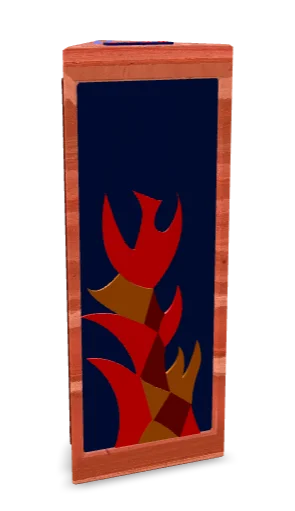
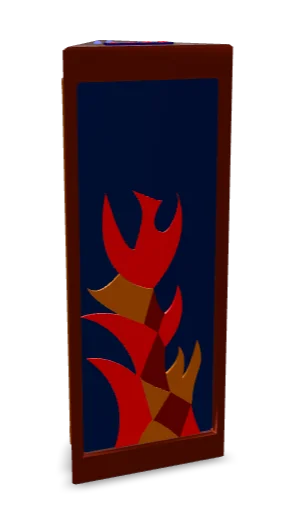
Replaced the webp poster

Changed region(s): [[0.1831, 0.0587, 0.7932, 0.9687]]

diff --git a/css/main.css b/css/main.css
@@ -1,1 +1,1 @@
-@import"https://fonts.googleapis.com/css2?family=Georama:ital,wght@0,100..900;1,100..900&display=swap";:root{font-size:clamp(12px,2vw,16px)}body{font-family:"Georama",Helvetica,sans-serif}model-viewer{width:auto;max-width:1200px;height:700px;background-image:linear-gradient(#343168, #f30023, #7a75bc);margin:0 auto;position:relative}.Hotspot{background:url(../images/hotspot.svg) center no-repeat;border:0;cursor:pointer;width:45px;aspect-ratio:1/1}.Hotspot:not([data-visible]){opacity:0;pointer-events:none}.Hotspot:focus{border:4px solid #0080c8;height:32px;outline:none}.HotspotAnnotation{opacity:0;visibility:hidden;transition:all .5s ease-in-out;background:#000;border-radius:4px;box-shadow:0 2px 4px hsla(0,0%,100%,.25);color:#fff;display:grid;grid-template-columns:23.3% 1fr;align-items:end;gap:1rem;font-family:"Georama",Helvetica Neue,sans-serif;font-size:1.15rem;font-weight:700;max-width:min(30vw,250px);overflow-wrap:break-word;padding:.5rem 1rem;position:absolute;bottom:-100%;left:calc(100% + 1rem);width:-moz-max-content;width:max-content;text-align:left}.Hotspot:hover .HotspotAnnotation{opacity:1;visibility:visible}.HotspotAnnotation p{font-size:.92rem;line-height:1.5rem;font-weight:300;grid-area:2/1/3/3}.HotspotAnnotation p.title{font-size:1.3rem;font-weight:500;grid-area:1/2/2/3}.HotspotAnnotation img{aspect-ratio:1/1;justify-self:end;background-color:#cfcfcf;grid-area:1/1/2/2}model-viewer::part(default-progress-bar){height:30px;background-color:#e89b36}model-viewer::part(default-progress-mask){display:none}body{background-color:#000}h1{text-align:center;margin-block:30px;color:rgb(255,68.1,95.0197530864)}/*# sourceMappingURL=main.css.map */
+@import"https://fonts.googleapis.com/css2?family=Georama:ital,wght@0,100..900;1,100..900&display=swap";:root{font-size:clamp(12px,2vw,16px)}body{font-family:"Georama",Helvetica,sans-serif}model-viewer{width:auto;max-width:1200px;height:700px;background-image:linear-gradient(#343168, #f30023, #7a75bc);margin:0 auto;position:relative}.Hotspot{background:url(../images/hotspot.svg) center no-repeat;border:0;cursor:pointer;width:45px;aspect-ratio:1/1}.Hotspot:not([data-visible]){opacity:0;pointer-events:none}.Hotspot:focus{border:4px solid #0080c8;height:32px;outline:none}.HotspotAnnotation{opacity:0;visibility:hidden;transition:all .5s ease-in-out;background:#000;border-radius:4px;box-shadow:0 2px 4px hsla(0,0%,100%,.25);color:#fff;display:grid;grid-template-columns:23.3% 1fr;align-items:end;gap:1rem;font-family:"Georama",Helvetica Neue,sans-serif;font-size:1.15rem;font-weight:700;max-width:min(30vw,250px);overflow-wrap:break-word;padding:.5rem 1rem;position:absolute;bottom:-100%;left:calc(100% + 1rem);width:-moz-max-content;width:max-content;text-align:left}.Hotspot:hover .HotspotAnnotation{opacity:1;visibility:visible}.HotspotAnnotation p{font-size:.92rem;line-height:1.5rem;font-weight:300;grid-area:2/1/3/3}.HotspotAnnotation p.title{font-size:1.3rem;font-weight:500;grid-area:1/2/2/3}.HotspotAnnotation img{aspect-ratio:1/1;justify-self:end;background-color:#cfcfcf;grid-area:1/1/2/2}model-viewer::part(default-progress-bar){height:30px;background-color:#e89b36}model-viewer::part(default-progress-mask){display:none}body{background-color:#000;padding-bottom:50px}h1{text-align:center;margin-block:30px;color:rgb(255,68.1,95.0197530864)}/*# sourceMappingURL=main.css.map */

diff --git a/index.html b/index.html
@@ -9,7 +9,7 @@
 </head>
     <body>
         <section class="grid-con center-grid-con">
-            <h1 class="col-span-full">Introducing the FSD Delonix Bluetooth Speaker</h1>
+            <h1 class="col-span-full">Introducing the FSD&nbsp;Delonix Bluetooth&nbsp;Speaker</h1>
             <section class="col-span-full">
                 <h2 class="hidden">Preview of the Model</h2>
                 <model-viewer src="model/prism.glb" ar ar-modes="webxr scene-viewer quick-look" camera-controls tone-mapping="neutral" poster="images/delonix-poster1.webp" shadow-intensity="0.89" autoplay exposure="1" shadow-softness="1">

diff --git a/sass/pages/_landing.scss b/sass/pages/_landing.scss
@@ -3,6 +3,7 @@
 
 body {
     background-color: black;
+    padding-bottom: 50px;
 }
 
 h1 {
